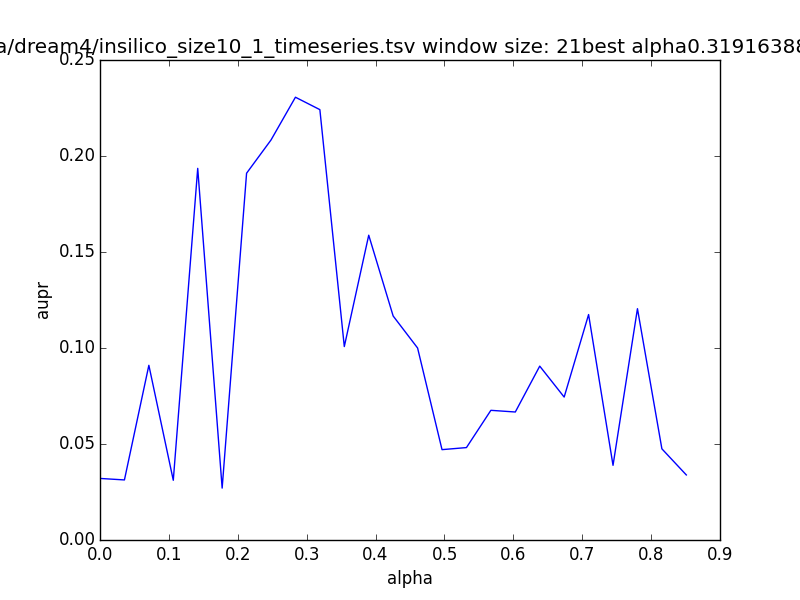
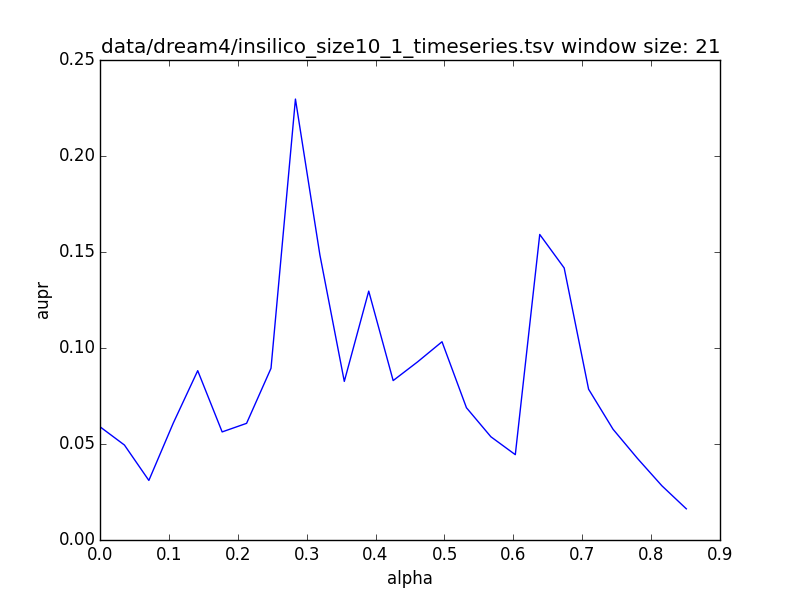
added correlation analysis scripts that graph items

diff --git a/run_post_analysis_correlation.py b/run_post_analysis_correlation.py
@@ -1,0 +1,152 @@
+import matplotlib
+matplotlib.use('Agg')
+import matplotlib.pyplot as plt
+
+import os
+import pandas as pd
+from Roller.util.Evaluator import Evaluator
+import pdb
+import numpy as np
+import kdpee
+import seaborn
+from scipy.stats.stats import pearsonr
+#get all pickle files
+path="/projects/p20519/Roller_outputs_RF_moretrees/"
+filenames = next(os.walk(path))[2]
+nfiles = len(filenames)
+#organize pickled objects by dataset analyzed
+obj_list = []
+counter = 0
+image_file_path = "/home/jjw036/Roller/aggregated"
+
+
+#todo: calculate distance between two edge lists
+#average models: calculate AUROC between averaged models
+#single line graph: window size, auroc
+gp_left = 0.2
+gp_bottom = 0.1
+gp_width = 0.7
+gp_height = 0.2
+
+padding = 0.01
+numTFs = 10
+dm_left = 0.2
+dm_bottom = 0.1+0.2+2*0.01
+dm_width = 0.7
+dm_height = 0.03*10
+
+target_dataset =  "data/dream4/insilico_size10_1_timeseries.tsv"
+img_suffix = "5"
+#dataset_list = ["5"]
+dataset_list = ["1","2","3","4","5"]
+
+window_start_list = []
+auroc_list = []
+rate_list = []
+average_list = []
+
+for dataset_counter in dataset_list:
+  img_suffix = str(dataset_counter)
+  target_dataset =  "data/dream4/insilico_size10_"+dataset_counter+"_timeseries.tsv"
+  for file in filenames:
+      full_path = path + file
+      print(full_path)
+      try:
+          roller_obj = pd.read_pickle(full_path)
+      except EOFError:
+          continue
+      attributes = dir(roller_obj)
+      if any("file_path" in attribute for attribute in attributes):
+        counter += 1
+        print(str(counter) + " out of " + str(nfiles))
+        key = roller_obj.file_path
+        if key == target_dataset:
+          window_size = roller_obj.window_width
+
+          for window in roller_obj.window_list:
+            min_time = min(window.raw_data['Time'].unique())
+            window_start_list.append(min_time)
+            gold_standard = roller_obj.file_path.replace("timeseries.tsv","goldstandard.tsv")
+            evaluator = Evaluator(gold_standard,sep="\t")
+            sorted_edge_list = window.results_table
+            sorted_edge_list.sort(['importance'], ascending=[False], inplace=True)
+            sorted_edge_list = sorted_edge_list[np.isfinite(sorted_edge_list['p_value'])]
+            tpr,fpr, auroc = evaluator.calc_roc(sorted_edge_list)
+            auroc_list.append(auroc[-1])
+
+            #posthoc analysis of rates and averages
+
+            rate_dict = window.get_rate_analysis(1)
+            rate_list.append(rate_dict)
+
+            average_list.append(window.get_average())
+
+    ## get the statistics for each gene
+  row_labels = window.genes
+  row_labels = np.append(row_labels, 'Aggr')
+  heatmap_values = pd.DataFrame()
+
+  col_labels = ['Rate (mean)', 'Rate (median)', 'Rate (min)', 'Rate (max)', 'Rate (std)']
+
+  ## dataframe labels: mean values, 
+  for index, gene in enumerate(window.genes):
+      #correlate auroc with gene mean
+      #auroc of a window is in auroc_list
+      #auroc_list should have the same length as the rate_dict_list
+
+      #get the mean for gene 1
+      item_mean = [rate_dict['mean'][index] for rate_dict in rate_list]
+      item_min = [rate_dict['min'][index] for rate_dict in rate_list]
+      item_max = [rate_dict['max'][index] for rate_dict in rate_list]
+      item_median = [rate_dict['median'][index] for rate_dict in rate_list]
+      item_std = [rate_dict['std'][index] for rate_dict in rate_list]
+      
+      mean_c = pearsonr(item_mean, auroc_list)[0]
+      median_c = pearsonr(item_median, auroc_list)[0]
+      min_c = pearsonr(item_min, auroc_list)[0]
+      max_c = pearsonr(item_max, auroc_list)[0]
+      std_c = pearsonr(item_std, auroc_list)[0]
+      
+      vector = [mean_c, median_c, min_c, max_c, std_c]
+      heatmap_values[gene] = vector
+  all_means = [rate['all_rates'].mean() for rate in rate_list] 
+  all_medians = [np.median(rate['all_rates']) for rate in rate_list] 
+  all_mins = [rate['all_rates'].min() for rate in rate_list] 
+  all_maxs = [rate['all_rates'].max() for rate in rate_list] 
+  all_std = [rate['all_rates'].std(ddof=1) for rate in rate_list]
+  all_means_c = pearsonr(all_means, auroc_list)[0]
+  all_medians_c = pearsonr(all_medians, auroc_list)[0]
+  all_mins_c = pearsonr(all_mins, auroc_list)[0]
+  all_maxs_c = pearsonr(all_maxs, auroc_list)[0]
+  all_std_c = pearsonr(all_std, auroc_list)[0]
+
+  all_vector = [all_means_c, all_medians_c, all_mins_c, all_maxs_c,all_std_c]
+  #rates_list = window.get_rates(1)
+  
+  heatmap_values['all'] = all_vector
+  f = plt.figure(figsize=(10,10))
+  axarr1 = f.add_axes([dm_left, dm_bottom, dm_width, dm_height])
+  my_axis = axarr1.matshow(heatmap_values,cmap=matplotlib.cm.RdBu,aspect='auto', vmin=-1, vmax=1)
+  my_axi = my_axis.get_axes()
+  axarr1.set_xlabel('Genes')
+  axarr1.xaxis.set_label_coords(0.5,1.15)
+  axarr1.yaxis.set_ticks_position('left')
+  axarr1.set_yticklabels(col_labels)
+  
+  axarr1.xaxis.set_ticks_position('top')
+  xlabelsL = axarr1.set_xticklabels(row_labels)
+  for label in xlabelsL:
+      label.set_rotation(90)
+      label.set_fontsize(8)
+  for label in (axarr1.get_yticklabels()):
+      label.set_fontsize(8)
+  pdb.set_trace()
+  axarr1.set_xticks(np.arange(heatmap_values.shape[1]))
+  axarr1.set_yticks(np.arange(heatmap_values.shape[0]))
+  axarr1.grid("off")
+  for l in axarr1.get_xticklines() + axarr1.get_yticklines():
+      l.set_markersize(0)
+
+  image_save = "test_heat_map"+img_suffix+".png"
+  f.savefig(image_save,format="png")
+

diff --git a/run_post_analysis_heatmap2.py b/run_post_analysis_heatmap2.py
@@ -12,13 +12,13 @@ import numpy as np
 import kdpee
 import seaborn
 #get all pickle files
-path="/projects/p20519/Roller_outputs_lasso/"
+path="/projects/p20519/Roller_outputs_lasso_random/"
 filenames = next(os.walk(path))[2]
 nfiles = len(filenames)
 #organize pickled objects by dataset analyzed
 obj_list = []
 counter = 0
-image_file_path = "/home/jjw036/Roller/aggregated"
+image_file_path = "/home/jjw036/Roller/aggregated_random"
 
 
 #todo: calculate distance between two edge lists
@@ -79,6 +79,8 @@ overall_df = pd.DataFrame()
 
 target_dataset =  "data/dream4/insilico_size10_1_timeseries.tsv"
 img_suffix = "5"
+#dataset_list = ["1"]
+
 dataset_list = ["1","2","3","4","5"]
 for dataset_counter in dataset_list:
   img_suffix = str(dataset_counter)
@@ -184,7 +186,7 @@ result_titles = ["precision","recall","aupr","tpr","fpr","auroc", "entropy"]
 result_list2 = [a_precision_list, a_recall_list, a_aupr_list, a_tpr_list, a_fpr_list,
     a_auroc_list]
 
-for count,result in enumerate(result_list2):
+"""for count,result in enumerate(result_list2):
     print(a_window_size_list)
     print(result)
     fig = plt.figure(6+count)
@@ -197,6 +199,7 @@ for count,result in enumerate(result_list2):
     fig.savefig(image_save)
 
 print(window_size_list)
+"""
 size_to_auroc = zip(window_size_list,window_start_list, window_auroc)
 f = plt.figure(figsize=(10,10))
 axarr2 = f.add_axes([gp_left, gp_bottom, gp_width, gp_height])
@@ -204,6 +207,7 @@ axarr1 = f.add_axes([dm_left, dm_bottom, dm_width, dm_height])
 
 #figure, heatmap = Grapher.generate_heatmap_from_df(self.roller_results.raw_data)
 #axarr1 = figure
+raw_data= roller_obj.raw_data
 time_vector = raw_data['Time'].unique()
 nrow,ncol=raw_data.shape
 nrepeats = nrow/len(time_vector)
@@ -222,6 +226,8 @@ for time in time_vector:
 my_axis =axarr1.matshow(heatmap_values,cmap=matplotlib.cm.RdBu,aspect='auto')
 my_axi = my_axis.get_axes()
 axarr1.set_xlabel('Time')
+axarr1.grid("off")
+axarr2.grid("off")
 axarr1.xaxis.set_label_coords(0.5, 1.08)
 
 axarr1.set_yticks(np.arange(heatmap_values.shape[0]))

diff --git a/run_pipeline_g.py b/run_pipeline_g.py
@@ -10,15 +10,15 @@ if __name__ == "__main__":
     plt.ioff()
     
     for file_path_index in range(1,6):
-      file_path = "data/dream4/insilico_size100_" + str(file_path_index) + "_timeseries.tsv"
+      file_path = "data/dream4/insilico_size10_" + str(file_path_index) + "_timeseries.tsv"
       #file_path = "data/dream4/insilico_size10_1_timeseries.tsv"
       gene_start_column = 1
       time_label = "Time"
       separator = "\t"
       gene_end = None
-      gold_standard = "data/dream4/insilico_size100_" + str(file_path_index) + "_goldstandard.tsv"
+      gold_standard = "data/dream4/insilico_size10_" + str(file_path_index) + "_goldstandard.tsv"
       #gold_standard = "data/dream4/insilico_size10_1_goldstandard.tsv"
-      image_file_path = "insilico_size100_" + str(file_path_index) + "_alphas"
+      image_file_path = "insilico_size10_" + str(file_path_index) + "_alphas"
       #image_file_path = "insilico_size10_1_alphas"
       roller = Roller.Roller(file_path, gene_start_column, gene_end, time_label, separator)
       print("Overall Width: " + str(roller.overall_width))
@@ -29,7 +29,7 @@ if __name__ == "__main__":
       aupr_list = []
 
       roller.set_window(width=window_size)
-      roller.create_windows()
+      roller.create_windows(random_time=False)
       roller.optimize_params()
       for alpha in roller.window_list[0].cv_table['alpha']:
           print("current alpha: " + str(alpha))
@@ -47,7 +47,7 @@ if __name__ == "__main__":
           alpha_list.append(alpha)
           aupr_list.append(max(score_dict['aupr']))
           
-          unique_filename = "/projects/p20519/Roller_outputs_moretrees/"+ str(uuid.uuid4())
+          unique_filename = "/projects/p20519/Roller_outputs_lasso_random/"+ str(uuid.uuid4())
           with open(unique_filename, 'wb') as output:
             pickle.dump(roller,output, pickle.HIGHEST_PROTOCOL) 
       

diff --git a/Roller/Window.py b/Roller/Window.py
@@ -271,7 +271,7 @@ class Window(object):
         return rate_dict
 
     def get_linearity(self):
-        n_genes = window_values.shape[1]
+        n_genes = self.window_values.shape[1]
         linearity = []
         for gene_index in range(0,n_genes):
             xi = self.raw_data[self.time_label].unique()
@@ -281,7 +281,6 @@ class Window(object):
         return linearity
 
     def get_average(self):
-        averages = np.average(self.window_values,)
-      
+        averages = self.window_values.mean(axis=0)      
         return averages
 

diff --git a/run_post_analysis.py b/run_post_analysis.py
@@ -143,8 +143,7 @@ fig2.savefig(image_save)
 
 result_titles = ["precision","recall","aupr","tpr","fpr","auroc", "entropy"]
 
-result_list2 = [precision_list2, recall_list2, aupr_list2, tpr_list2, fpr_list2,
-    auroc_list2, entropies]
+result_list2 = [precision_list2, recall_list2, aupr_list2, tpr_list2, fpr_list2,auroc_list2, entropies]
 
 for count,result in enumerate(result_list2):
   print(window_size_list)

diff --git a/Roller/RFRWindow.py b/Roller/RFRWindow.py
@@ -98,7 +98,7 @@ class RandomForestRegressionWindow(Window):
         """
         if n_trees is None:
             # Select number of trees with default parameters
-            self.n_trees = 1500
+            self.n_trees = 300
         elif n_trees >= 0 and type(n_trees) == int:
             self.n_trees = n_trees
         else:

diff --git a/Roller/Roller.py b/Roller/Roller.py
@@ -100,7 +100,6 @@ class Roller(object):
         """
         if random_time:
             #select three random timepoints
-            pdb.set_trace()
             time_window = self.time_vec[start_index]
             choices = self.time_vec
             choices = np.delete(choices, start_index)
